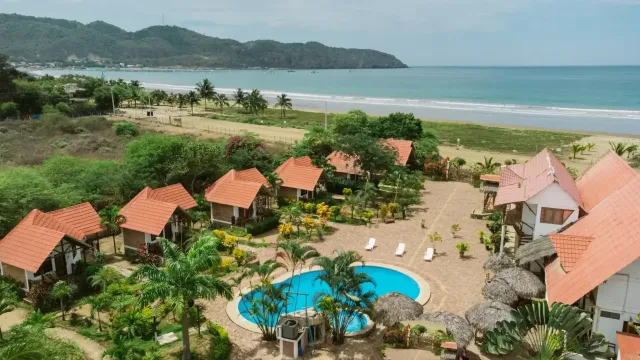
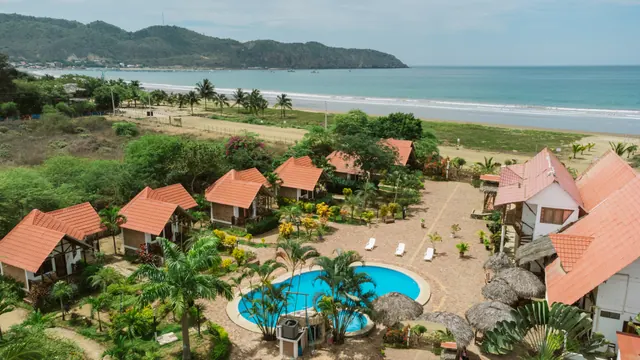
optimizando lcp

Changed region(s): [[0.5, 0.7944, 0.5312, 0.825], [0.4375, 0.7944, 0.4688, 0.825], [0.375, 0.8556, 0.4062, 0.8861]]

diff --git a/index.html b/index.html
@@ -58,19 +58,15 @@
       background: var(--white)
     }
 
-    /* ══════════════════════════════════════════════════════════
-   HERO — layout tipo Neutralia, estilo Oceanic
-══════════════════════════════════════════════════════════ */
+    /*    HERO */
 
     .hero {
       position: relative;
       overflow: hidden;
       padding-block: clamp(5rem, 12vw, 8rem);
       padding-top: calc(66px + clamp(3rem, 8vw, 5rem));
-      /* compensa nav fijo */
     }
 
-    /* Imagen de fondo */
     .hero-bg {
       position: absolute;
       inset: 0;
@@ -82,11 +78,9 @@
       height: 100%;
       object-fit: cover;
       object-position: center 30%;
-      /* Reserva espacio antes de que cargue — elimina CLS */
       aspect-ratio: 1920 / 1080;
     }
 
-    /* Overlay degradado oscuro — legibilidad del texto */
     .hero-overlay {
       position: absolute;
       inset: 0;
@@ -270,7 +264,7 @@
       overflow: hidden;
     }
 
-    /* Marco decorativo: doble anillo tipo Neutralia */
+    /* Marco decorativo */
     .hero-circle::before,
     .hero-circle::after {
       content: '';
@@ -316,7 +310,6 @@
       bottom: 0;
       right: 0;
       z-index: 2;
-      /* Acento: anillo en azul Oceanic para el segundo */
     }
 
     .hero-circle--bottom::before {
@@ -324,7 +317,6 @@
         0 0 0 8px rgba(91, 158, 201, 0.12);
     }
 
-    /* Conector visual entre los dos círculos — línea curva sutil */
     .hero-circles::after {
       content: '';
       position: absolute;
@@ -338,8 +330,9 @@
       z-index: 0;
     }
   </style>
-  <link rel="stylesheet" href="style.css">
-  <link rel="preload" as="image" imagesrcset="/img/hero-oceanic-sm.webp 640w, /img/hero-oceanic-large.webp 1920w"
+  <link rel="preload" href="style.css" as="style" onload="this.onload=null;this.rel='stylesheet'">
+  <noscript><link rel="stylesheet" href="style.css"></noscript>
+  <link rel="preload" as="image" imagesrcset="/img/hero-oceanic-sm.webp 640w, /img/hero-oceanic-md.webp 1280w, /img/hero-oceanic-large.webp 1920w"
     imagesizes="100vw">
 
   <!-- Schema JSON-LD  -->
@@ -558,7 +551,7 @@
     <section class="hero" aria-labelledby="hero-h1">
       <div class="hero-bg">
         <img id="heroImg" src="img/hero-oceanic-large.webp"
-          srcset="/img/hero-oceanic-sm.webp 640w, /img/hero-oceanic-large.webp 1920w" sizes="100vw"
+          srcset="/img/hero-oceanic-sm.webp 640w, /img/hero-oceanic-md.webp 1280w, /img/hero-oceanic-large.webp 1920w" sizes="100vw"
           alt="Vista aérea de Hostería Oceanic — cabañas con techos de teja, piscina azul y jardines tropicales frente al Pacífico en Puerto López, Manabí, Ecuador"
           width="1920" height="1080" fetchpriority="high" decoding="sync" style="aspect-ratio:1920/1080;">
         <div class="hero-overlay"></div>
@@ -635,9 +628,9 @@
               aria-label="TikTok de Oceanic Hostería">
               <svg xmlns="http://www.w3.org/2000/svg" width="20" height="20" fill="currentColor" viewBox="0 0 24 24">
                 <path d="M19.59 6.69a4.83 4.83 0 0 1-3.77-4.25V2h-3.45v13.67a2.89 2.89 0 0 1-2.88 2.5
-             2.89 2.89 0 0 1-2.89-2.89 2.89 2.89 0 0 1 2.89-2.89c.28 0 .54.04.79.1V9.01
-             a6.33 6.33 0 0 0-.79-.05 6.34 6.34 0 0 0-6.34 6.34 6.34 6.34 0 0 0 6.34 6.34
-             6.34 6.34 0 0 0 6.33-6.34V8.69a8.18 8.18 0 0 0 4.78 1.52V6.75a4.85 4.85 0 0 1-1.01-.06z" />
+            2.89 2.89 0 0 1-2.89-2.89 2.89 2.89 0 0 1 2.89-2.89c.28 0 .54.04.79.1V9.01
+            a6.33 6.33 0 0 0-.79-.05 6.34 6.34 0 0 0-6.34 6.34 6.34 6.34 0 0 0 6.34 6.34
+            6.34 6.34 0 0 0 6.33-6.34V8.69a8.18 8.18 0 0 0 4.78 1.52V6.75a4.85 4.85 0 0 1-1.01-.06z" />
               </svg>
             </a>
           </div>

diff --git a/retiros-holisticos-puerto-lopez/index.html b/retiros-holisticos-puerto-lopez/index.html
@@ -867,7 +867,7 @@
   <header class="nav">
     <div class="nav-inner">
       <a href="/" class="nav-logo" aria-label="Hostería Oceanic — Inicio">
-        <img src="../img/logo-full.webp" alt="Oceanic Hostería · Restaurante, Puerto López" class="nav-logo" width="160"
+        <img src="../img/logo-nav.webp" alt="Oceanic Hostería · Restaurante, Puerto López" class="nav-logo" width="68"
           height="38">
       </a>
 
@@ -925,7 +925,7 @@
 
         <div class="gal-grid">
           <div class="gal-video">
-            <video src="retiros-oceanic.mp4" poster="poster-oceanic-espacio.webp" controls muted loop playsinline
+            <video src="retiros-oceanic.mp4" poster="poster-oceanic-espacio-opt.webp" controls muted loop playsinline
               preload="metadata">
               Su navegador no soporta video HTML5.
             </video>
